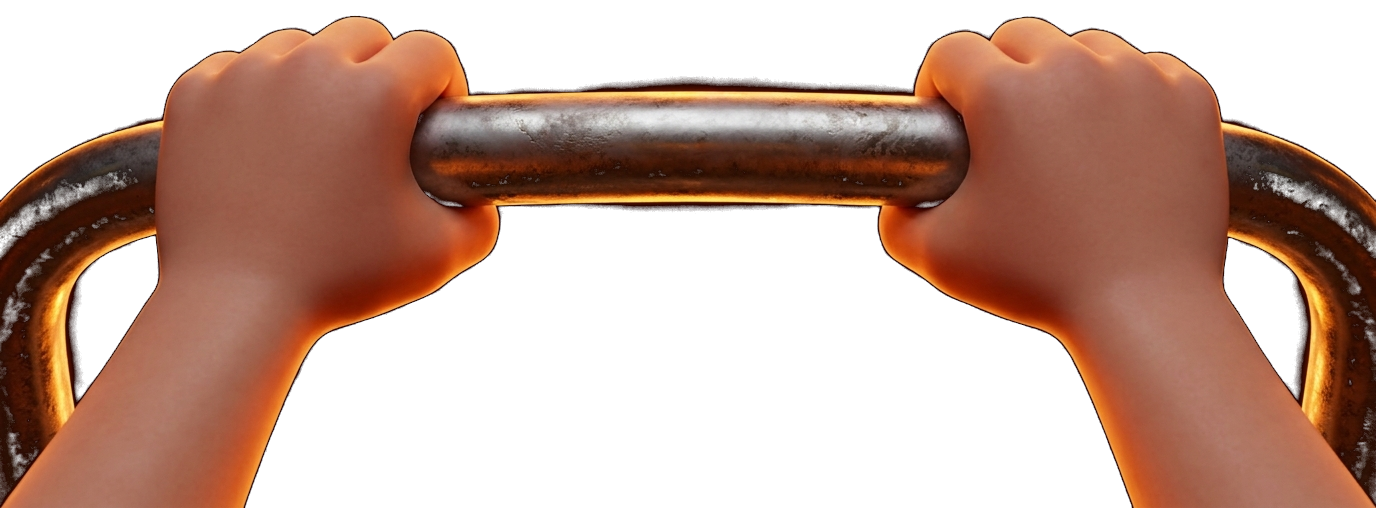
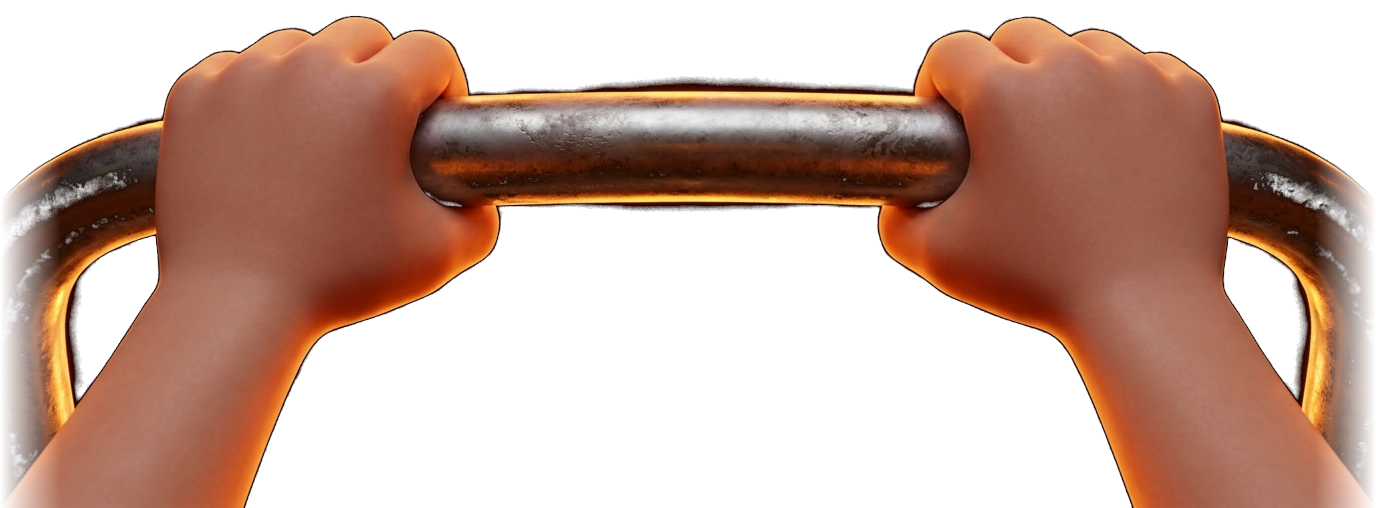
feat(coaster): refine first-person hands overlay and fix syntax

Changed region(s): [[0.9375, 0.3248, 1.0, 1.0], [0.0, 0.3248, 0.0625, 1.0]]

diff --git a/games/coaster-run/magmaEngine.js b/games/coaster-run/magmaEngine.js
@@ -90,7 +90,7 @@
       this.createSpeedStreaks();
       this.createVolcanoEnvironment();
       this.createGatePortals();
-      // this.createCockpit();
+      this.createCockpit();
 
       window.addEventListener('resize', () => this.onResize());
 
@@ -124,7 +124,7 @@
       this.cockpitGroup.add(bounceLight);
 
       this.camera.add(this.cockpitGroup);
-    } this.scene.add(this.camera);
+      this.scene.add(this.camera);
     }
 
     /**
